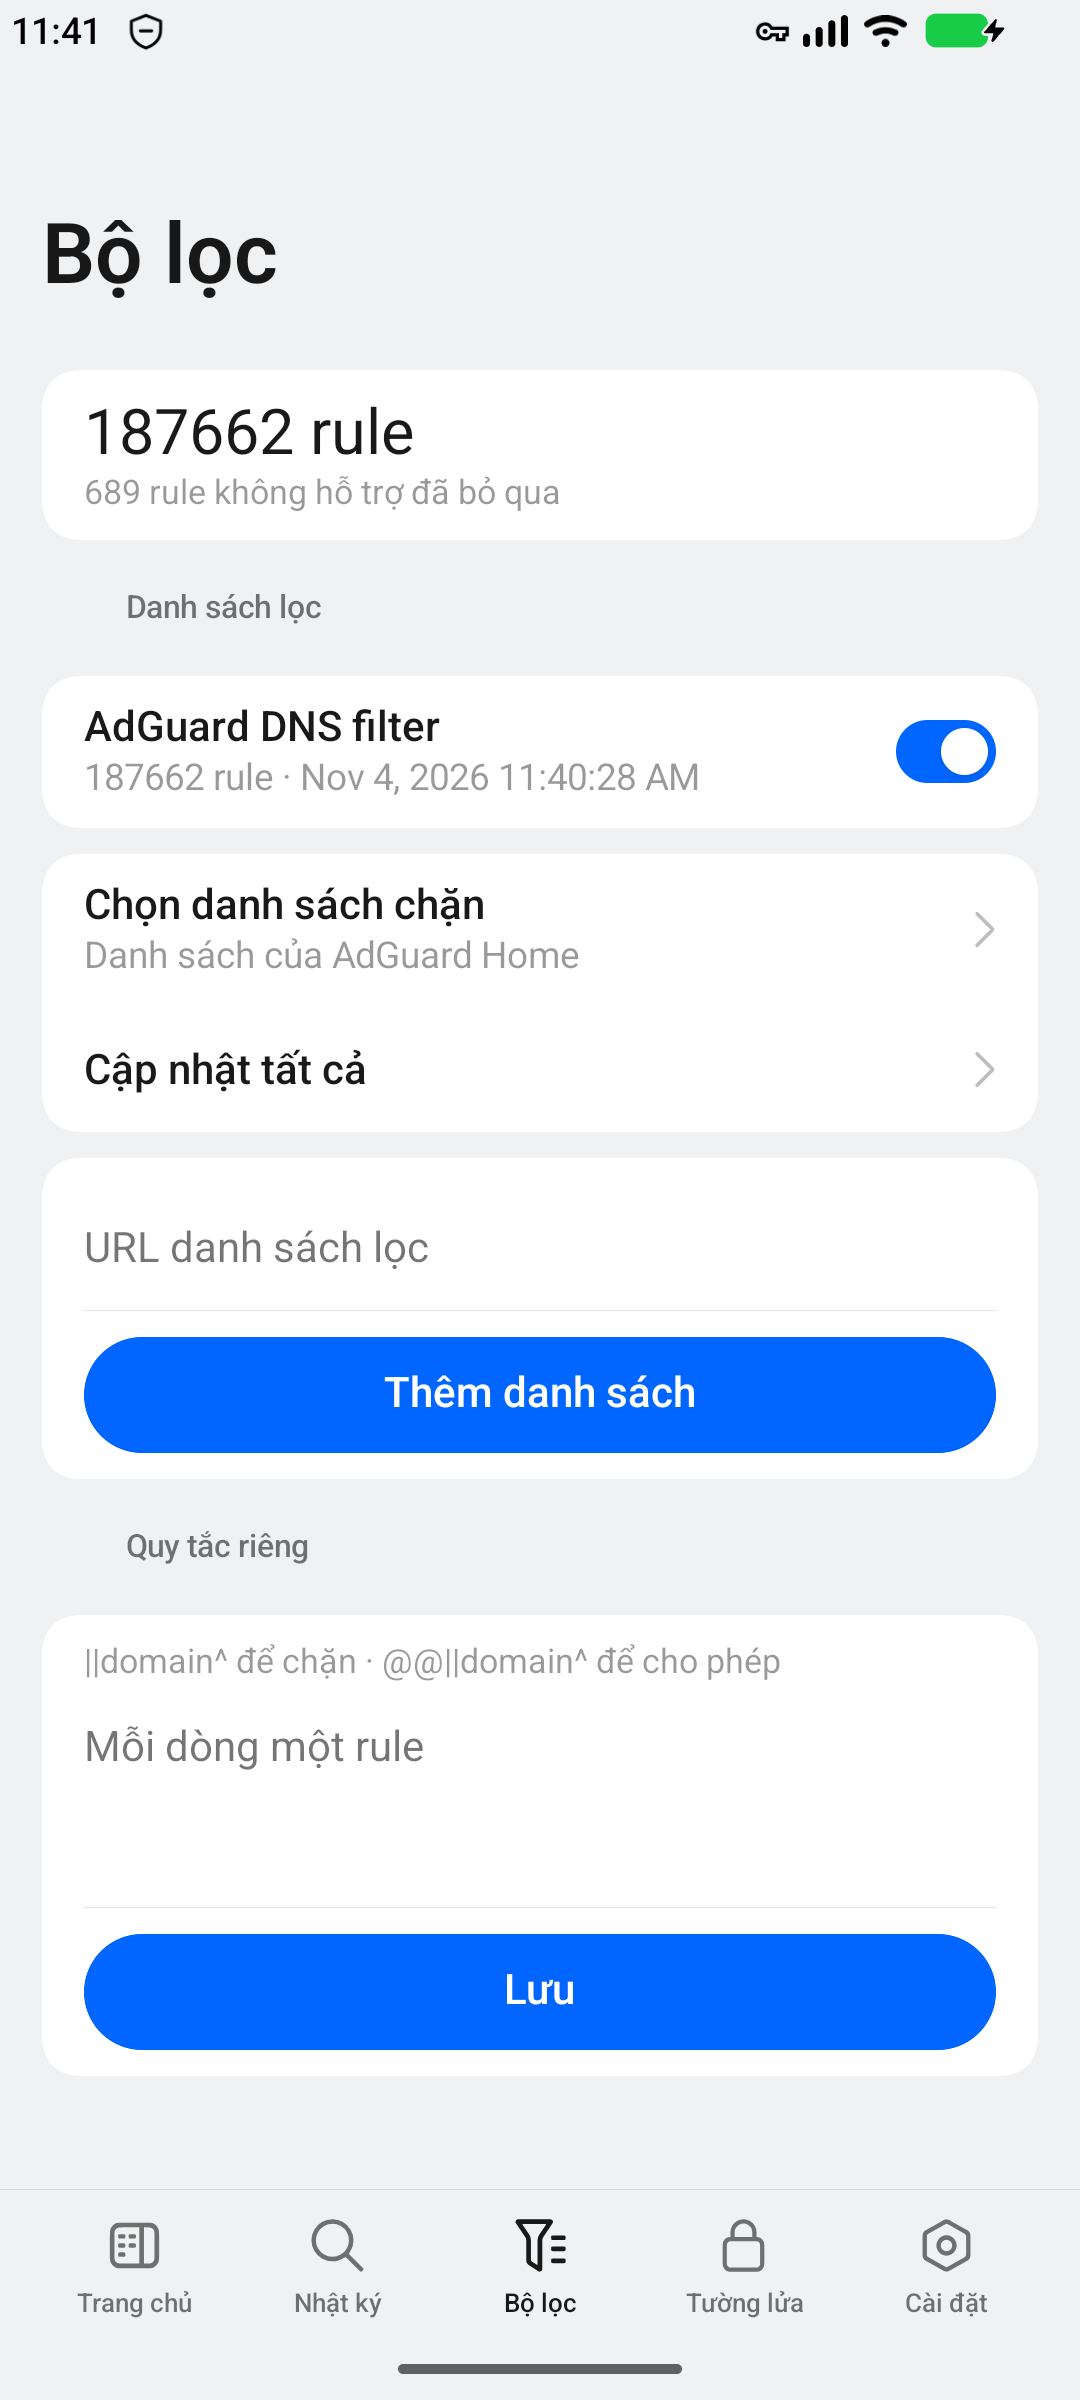
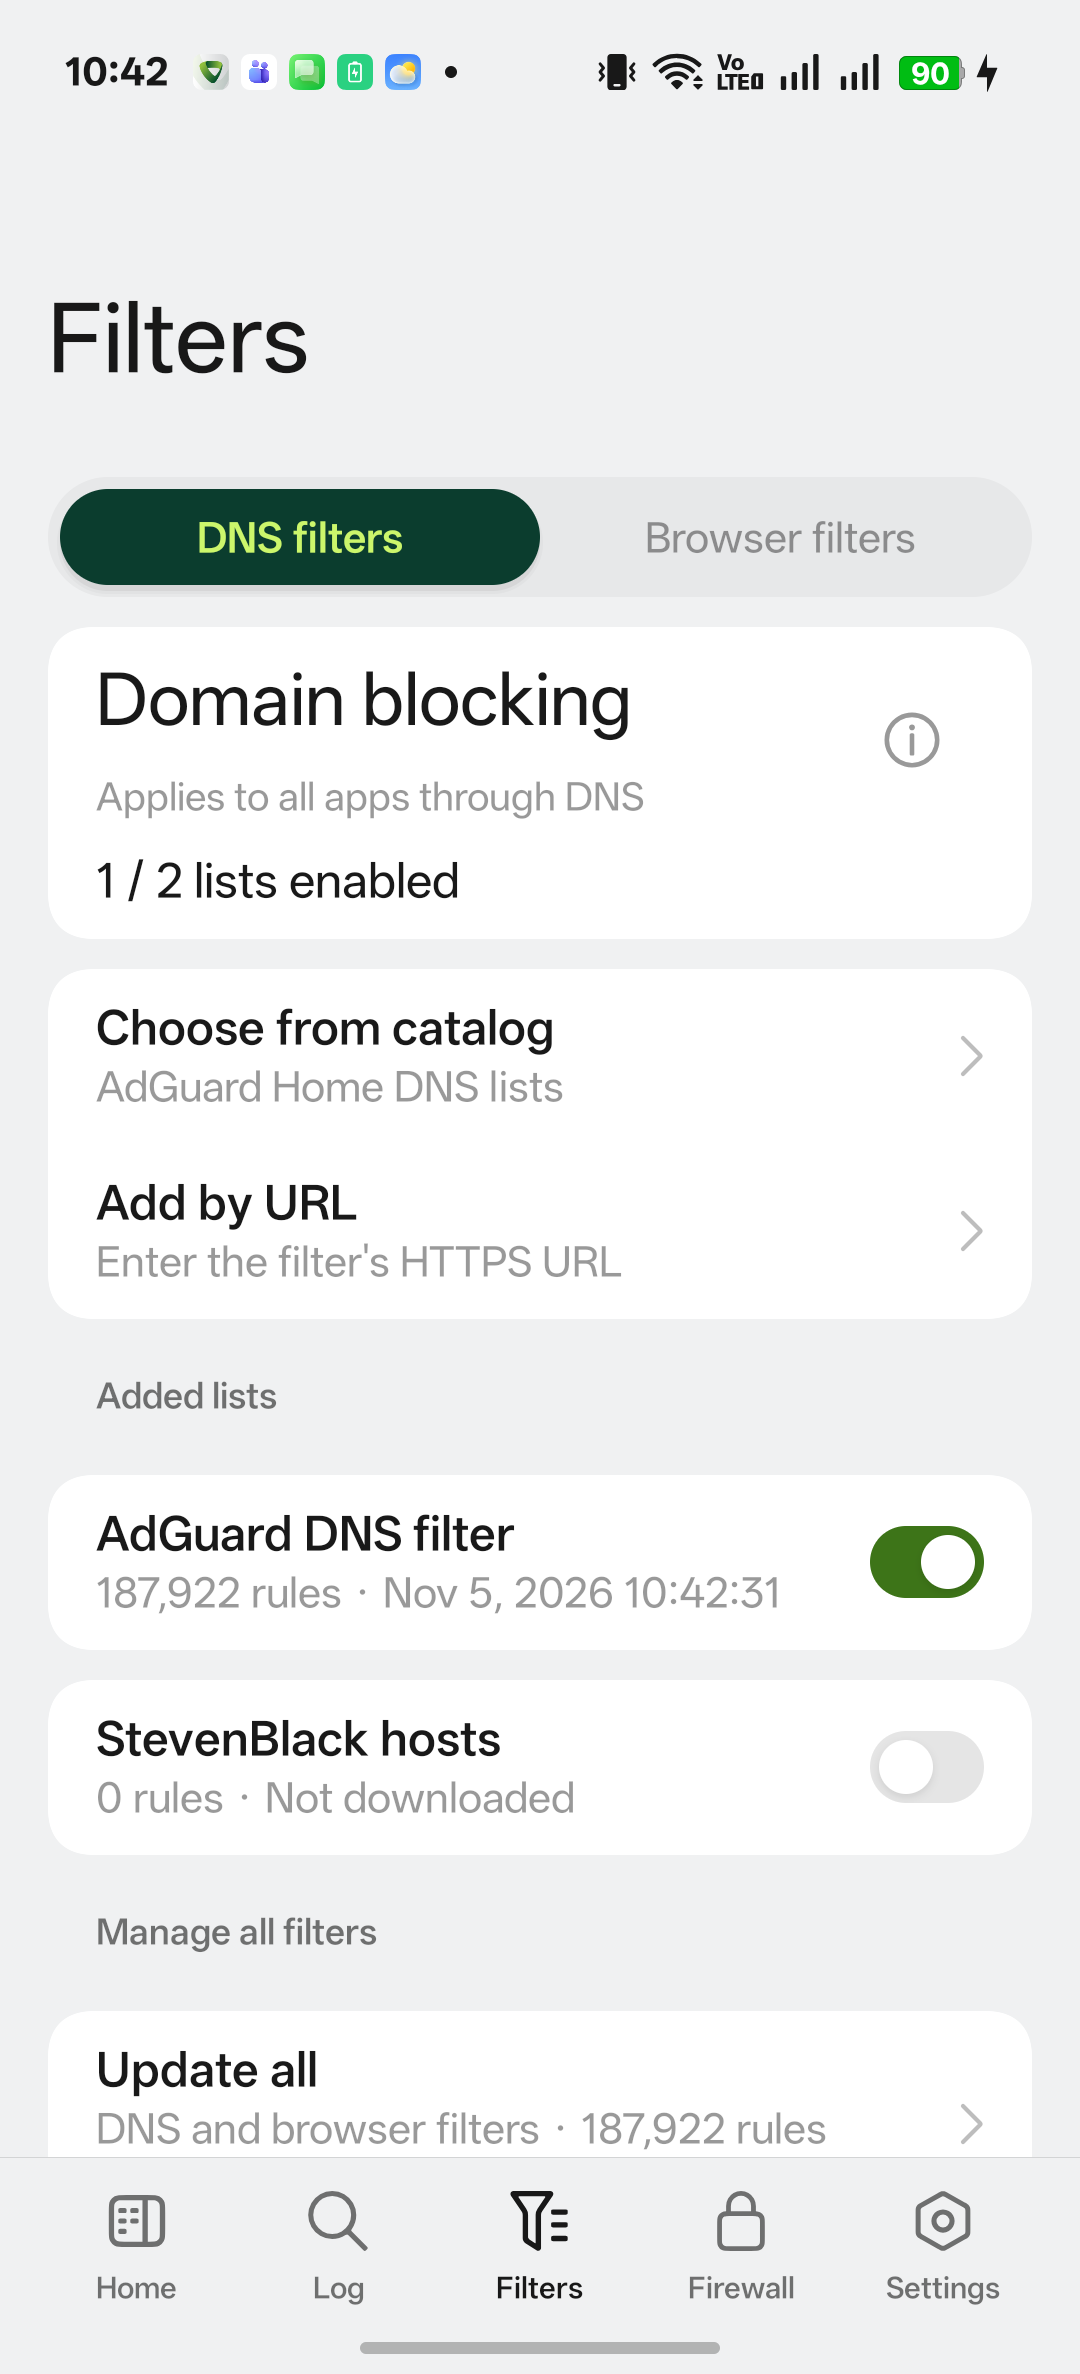
docs: update English README and app screenshots

diff --git a/README.md b/README.md
@@ -1,48 +1,48 @@
 # Open AdBlock
 
-Chặn quảng cáo và trình theo dõi trên Android bằng VPN cục bộ. **Android 13 trở lên, không cần root.**
+Block ads and trackers on Android with a local VPN. **Android 13 or later. No root required.**
 
-## Cài đặt
+## Installation
 
-1. Tải APK tại [bản phát hành mới nhất](https://github.com/ToThangGTVT/coloros-block-ads/releases/latest). Đa số máy dùng **arm64-v8a**; máy ARM 32-bit dùng **armeabi-v7a**.
-2. Mở APK và cho phép cài từ nguồn này nếu Android yêu cầu.
-3. Mở Open AdBlock → **Trang chủ** → bật VPN → chấp nhận yêu cầu kết nối VPN.
-4. Nếu chưa có bộ lọc, vào **Bộ lọc → Chọn danh sách chặn** để bật danh sách, rồi **Cập nhật tất cả**.
+1. Download an APK from the [latest release](https://github.com/ToThangGTVT/coloros-block-ads/releases/latest). Most devices use **arm64-v8a**; 32-bit ARM devices use **armeabi-v7a**.
+2. Open the APK and allow installation from this source if Android asks.
+3. Open Open AdBlock → **Home**, turn on protection, and accept the VPN connection request.
+4. If no filter rules are loaded, open **Filters → Choose from catalog**, enable a list, then tap **Update all**.
 
-Khi Trang chủ hiện **Đang bảo vệ**, bạn có thể dùng máy bình thường.
+Once Home shows **Protecting**, you can use your device as usual.
 
-## Các mục chính
+## Main features
 
-| Mục | Dùng để |
+| Screen | What you can do |
 | --- | --- |
-| **Trang chủ** | Bật/tắt bảo vệ, xem số lượt chặn. |
-| **Nhật ký** | Xem kết nối, tìm tên miền và chặn/cho phép nhanh. |
-| **Bộ lọc** | Chọn, cập nhật danh sách chặn hoặc thêm quy tắc riêng. |
-| **Tường lửa** | Cho phép hoặc chặn mạng từng ứng dụng khi VPN bật. |
-| **Cài đặt** | Chọn DNS, chỉnh ghi log, sao lưu và kiểm tra cập nhật. |
+| **Home** | Turn protection on or off and view blocking statistics. |
+| **Log** | Inspect connections, search domains, and quickly block or allow them. |
+| **Filters** | Choose and update filter lists or add custom rules. |
+| **Firewall** | Allow or block network access for individual apps while the VPN is on. |
+| **Settings** | Choose a DNS server, configure logging, back up settings, and check for updates. |
 
-## Ngôn ngữ
+## Languages
 
-Ứng dụng hỗ trợ **Tiếng Việt** và **English**, mặc định theo ngôn ngữ thiết bị (dùng tiếng Anh nếu chưa hỗ trợ ngôn ngữ đó). Đổi tại **Cài đặt → Giao diện → Ngôn ngữ**, hoặc mục ngôn ngữ ứng dụng trong cài đặt Android.
+The app supports **English** and **Vietnamese**. It follows your device language by default and falls back to English for unsupported languages. Change it in **Settings → Appearance → Language**, or in Android's per-app language settings.
 
-## Ảnh màn hình
+## Screenshots
 
 <p align="center">
-  <img src="docs/screenshots/home.png" width="240" alt="Trang chủ Open AdBlock đang bảo vệ">
-  <img src="docs/screenshots/filters.png" width="240" alt="Chọn và cập nhật bộ lọc">
-  <img src="docs/screenshots/firewall.png" width="240" alt="Tường lửa theo ứng dụng">
+  <img src="docs/screenshots/home.png" width="240" alt="Open AdBlock Home dashboard">
+  <img src="docs/screenshots/filters.png" width="240" alt="Filter list selection and updates">
+  <img src="docs/screenshots/firewall.png" width="240" alt="Per-app network access controls in Firewall">
 </p>
 
-*Ảnh chụp bản 1.0.3 trên máy giả lập Android.*
+*Captured in English from version 1.1.5 (debug build) on an Android device.*
 
-## Lưu ý
+## Notes
 
-- Chỉ dùng được một VPN cùng lúc. VPN của Open AdBlock chạy trên máy, không phải dịch vụ đổi IP.
-- Không chặn được mọi quảng cáo, chẳng hạn quảng cáo dùng chung máy chủ với nội dung.
-- Nếu app bị dừng nền, vào **Cài đặt → Ưu tiên chạy ngầm**. Nếu có cảnh báo Private DNS, tắt DNS riêng trong cài đặt Android để lọc đầy đủ hơn.
-- Log/thống kê cập nhật theo lô khoảng 5 giây, có thể sớm hơn khi nhiều kết nối. Lọc HTTPS là tùy chọn nâng cao, mặc định tắt.
-- Có thể ẩn phần tử quảng cáo trong Chrome bằng [quy tắc CSS theo website](docs/cosmetic-filtering.md), cần cấu hình lọc HTTPS và cài CA.
+- Android allows only one active VPN at a time. Open AdBlock's VPN runs locally on your device; it does not change your public IP address.
+- Some ads cannot be blocked, including ads served from the same servers as the content you want to access.
+- If Android stops the app in the background, open **Settings → Keep running in the background**. If a Private DNS warning appears, turn off Private DNS in Android settings for full DNS filtering.
+- Logs and statistics update in batches roughly every five seconds, or sooner during heavy traffic. HTTPS filtering is an advanced option and is off by default.
+- You can hide ad elements in Chrome using [website-specific CSS rules](docs/cosmetic-filtering.md). This requires HTTPS filtering and an installed CA certificate.
 
-Cập nhật tại **Cài đặt → Cập nhật ứng dụng → Kiểm tra cập nhật GitHub**.
+Check for updates in **Settings → App updates → Check GitHub for updates**.
 
-[Hướng dẫn build](docs/build.md) · [Thông tin phát hành](docs/releases.md) · [Giấy phép thư viện](THIRD_PARTY_LICENSES.md)
+[Build instructions](docs/build.md) · [Release information](docs/releases.md) · [Third-party licenses](THIRD_PARTY_LICENSES.md)
